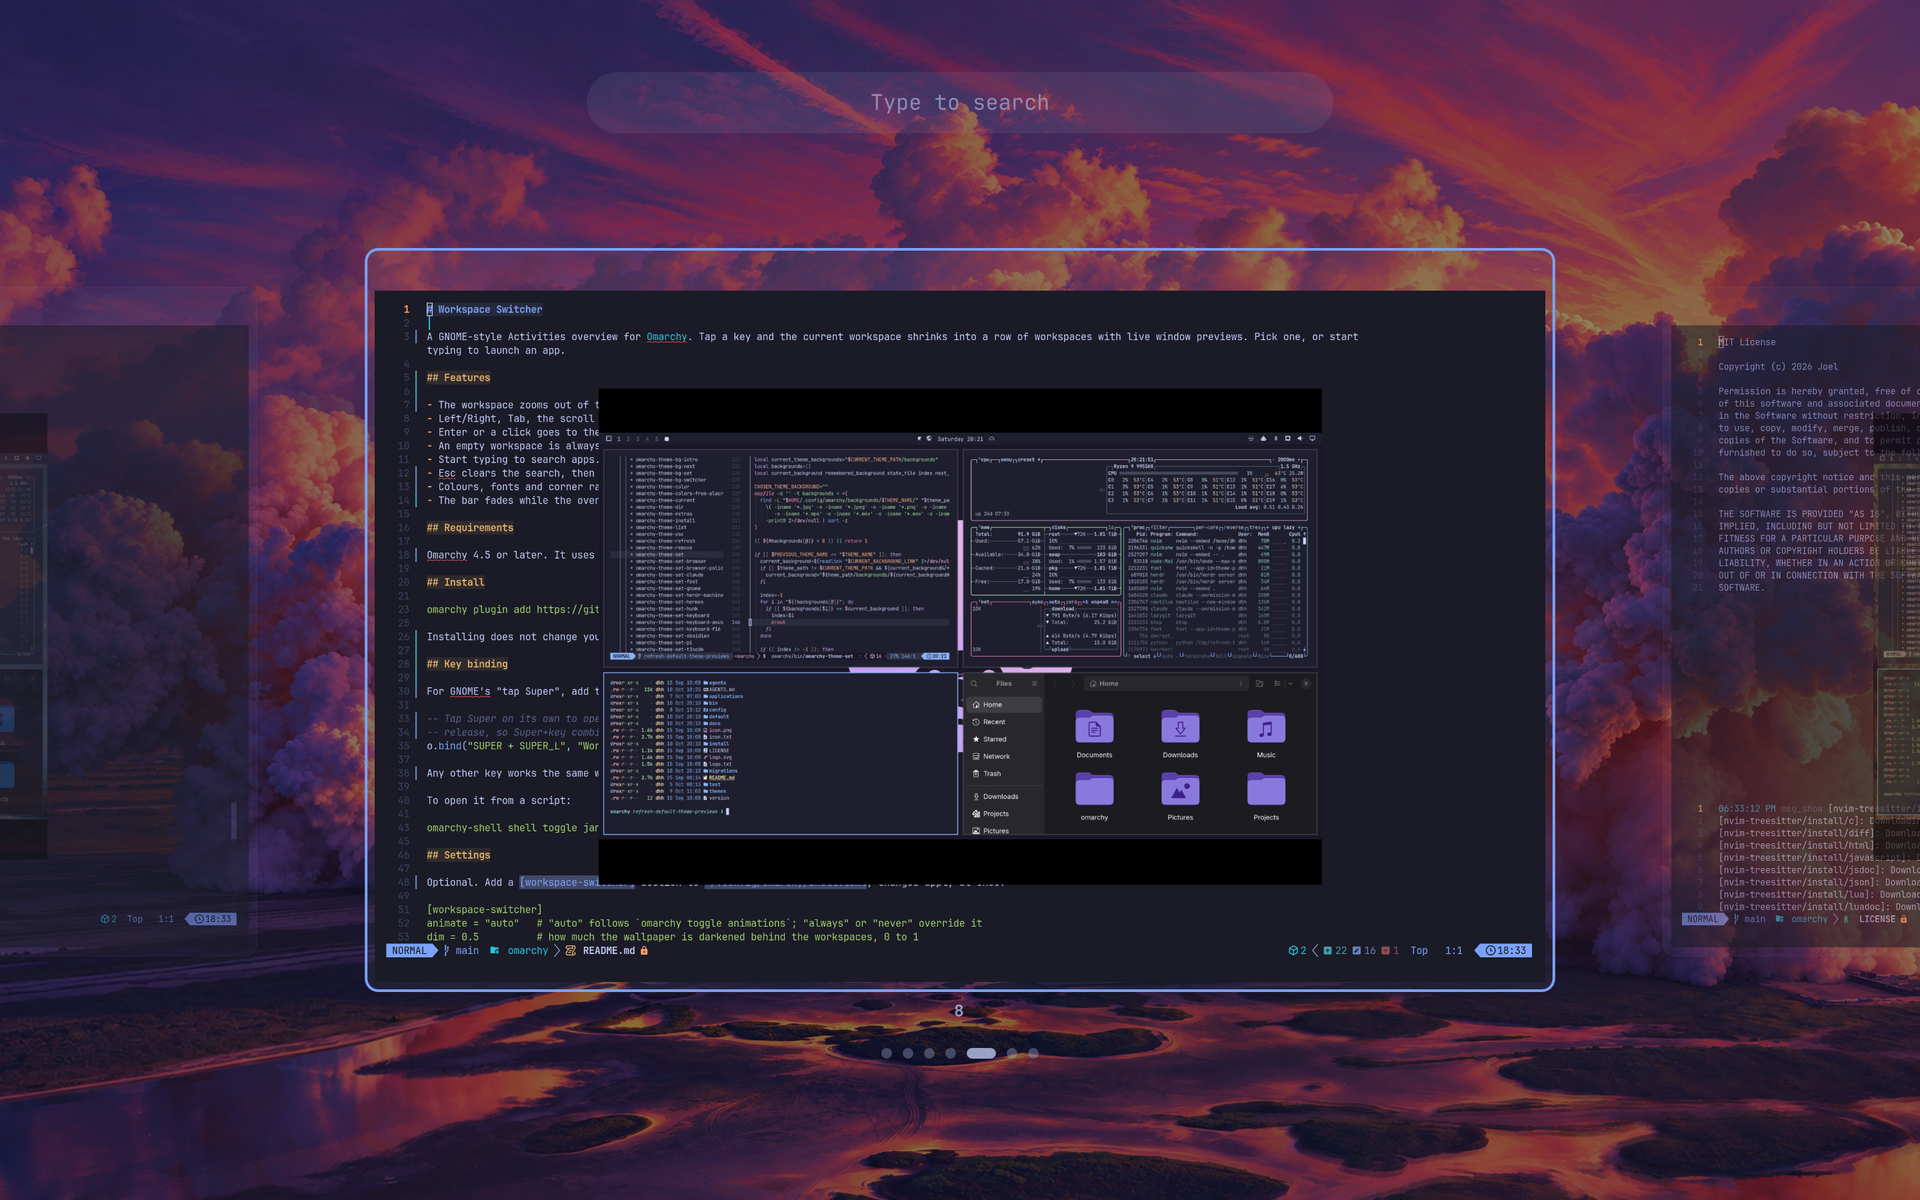
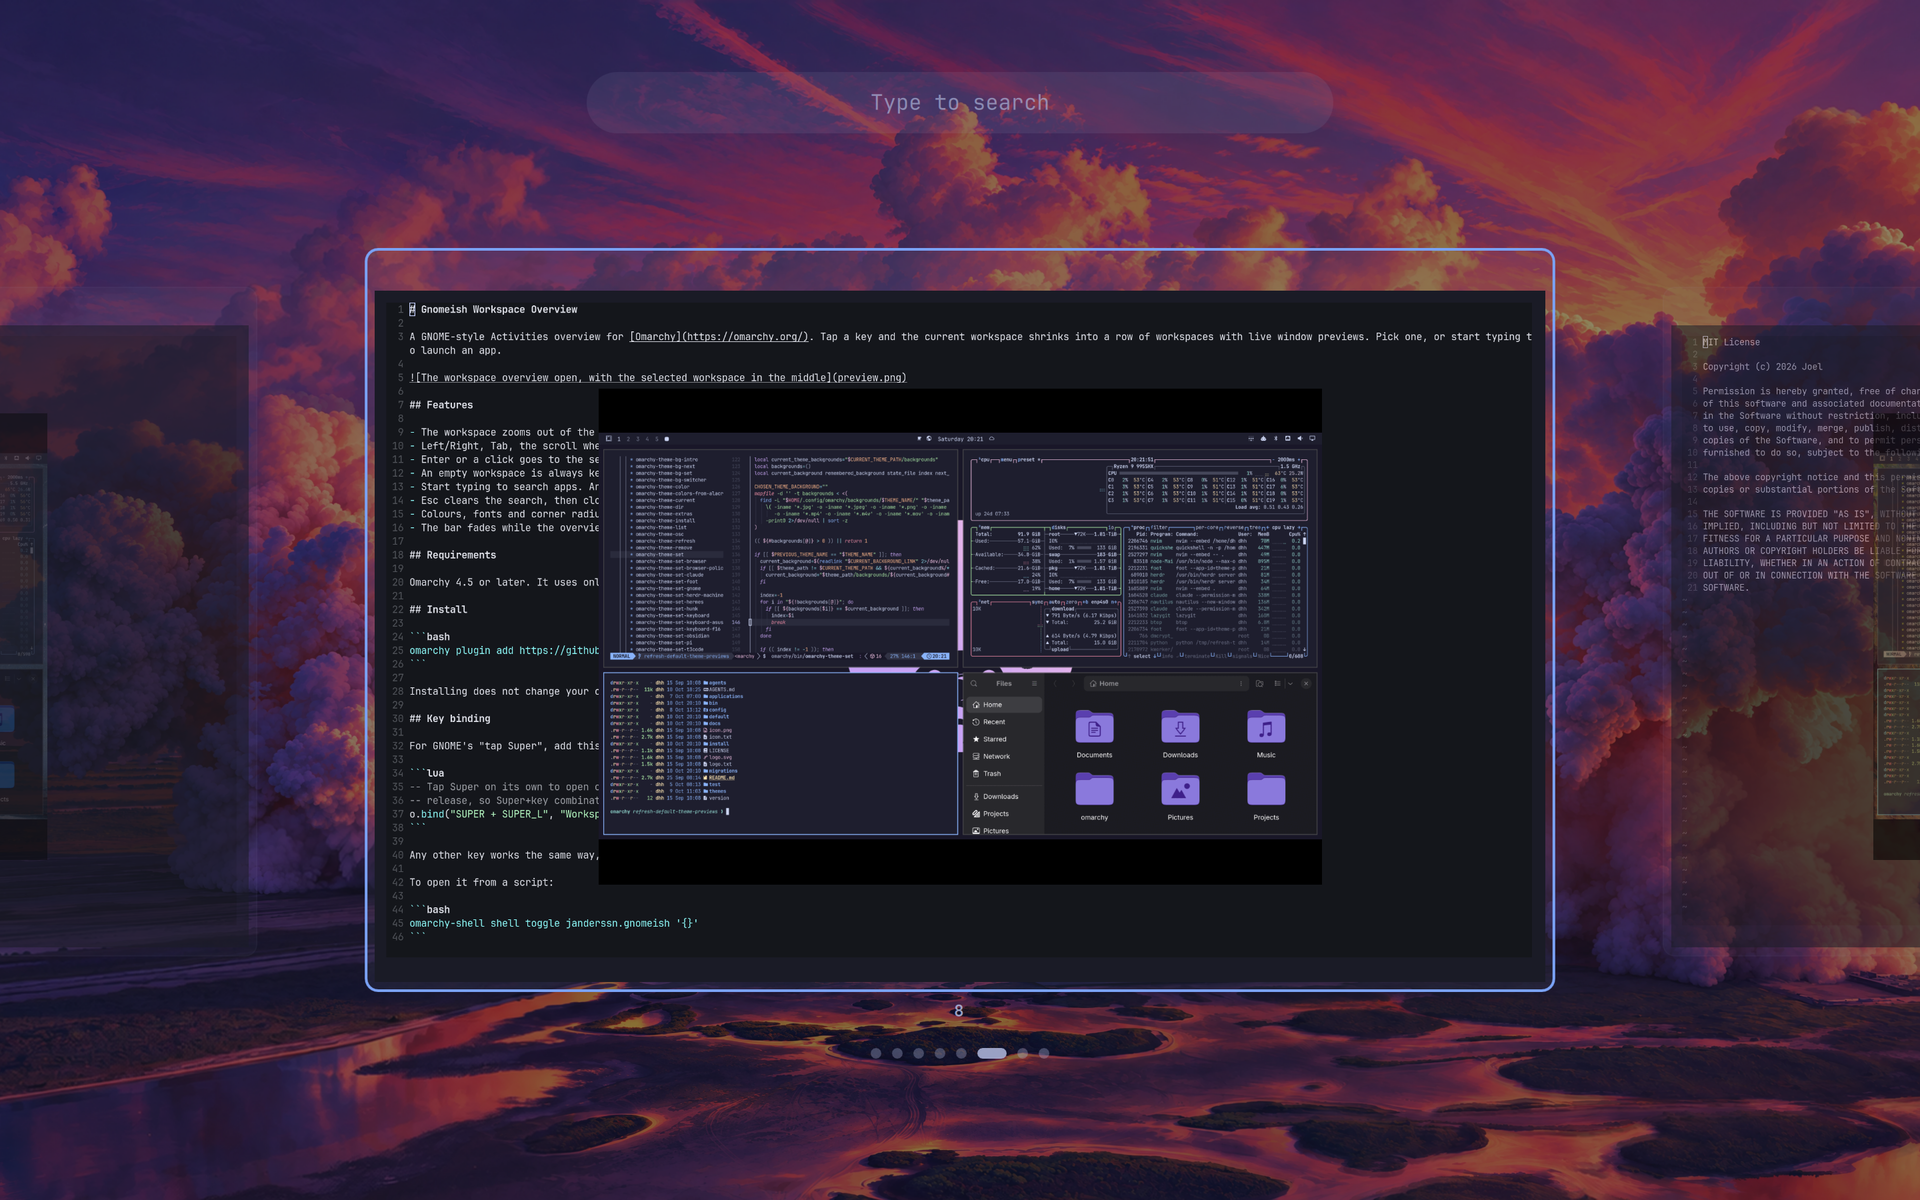
Rename the plugin to Gnomeish Workspace Overview (janderssn.gnomeish)
Two marketplace listings are already called Workspace Switcher. The id,
display name, settings section ([gnomeish]), entry file and repository
(omarchy-gnomeish) change together, and the preview is retaken.

tools/publish-gnomeish now commits a snapshot of the folder onto the
published repository instead of a subtree push, so a folder rename does
not rewrite the public history.

diff --git a/Gnomeish.qml b/Gnomeish.qml
@@ -7,7 +7,7 @@ import qs.Commons
 import qs.Commons as Commons
 import qs.Ui
 
-// Workspace Switcher: a GNOME-style Activities overview for Omarchy.
+// Gnomeish Workspace Overview: a GNOME-style Activities overview for Omarchy.
 //  - Workspaces as large cards with live window previews, current one centered.
 //  - Left/Right, scroll wheel / touchpad, or swipe to move between workspaces;
 //    Enter or click to go there; click a window to focus it.
@@ -18,7 +18,7 @@ Item {
 
   property var shell: null
   property var manifest: null
-  readonly property string pluginId: (manifest && manifest.id) || "janderssn.workspace-switcher"
+  readonly property string pluginId: (manifest && manifest.id) || "janderssn.gnomeish"
   readonly property var appLibrary: shell ? shell.appLibrary : null
 
   property bool opened: false
@@ -62,13 +62,13 @@ Item {
   }
 
   // ---------------------------------------------------------------- settings
-  // Optional, from an [workspace-switcher] section in ~/.config/omarchy/shell.toml:
+  // Optional, from an [gnomeish] section in ~/.config/omarchy/shell.toml:
   //   animate = "auto" | "always" | "never"   (auto follows `omarchy toggle animations`)
   //   dim     = 0.5                           (darkening of the wallpaper, 0 to 1)
   //   bar     = "fade" | "keep"               (fade the bar away, or leave it showing and usable)
   function setting(key, fallback) {
     var values = Commons.Color.shellValues
-    var value = values ? values["workspace-switcher." + key] : undefined
+    var value = values ? values["gnomeish." + key] : undefined
     return typeof value === "string" && value.length > 0 ? value : fallback
   }
 
@@ -584,7 +584,7 @@ Item {
   OverlayWindow {
     id: panel
     shown: root.opened
-    WlrLayershell.namespace: "workspace-switcher"
+    WlrLayershell.namespace: "gnomeish"
 
     // With the bar kept, clicks on it go to the bar.
     mask: root.keepBar ? stageRegion : null

diff --git a/README.md b/README.md
@@ -1,8 +1,8 @@
-# Workspace Switcher
+# Gnomeish Workspace Overview
 
 A GNOME-style Activities overview for [Omarchy](https://omarchy.org/). Tap a key and the current workspace shrinks into a row of workspaces with live window previews. Pick one, or start typing to launch an app.
 
-![The workspace switcher open, with the selected workspace in the middle](preview.png)
+![The workspace overview open, with the selected workspace in the middle](preview.png)
 
 ## Features
 
@@ -22,7 +22,7 @@ Omarchy 4.5 or later. It uses only what Omarchy ships; there is nothing else to 
 ## Install
 
 ```bash
-omarchy plugin add https://github.com/janderssn/omarchy-workspace-switcher.git --enable
+omarchy plugin add https://github.com/janderssn/omarchy-gnomeish.git --enable
 ```
 
 Installing does not change your configuration. To open the overview you add a key binding yourself.
@@ -32,25 +32,25 @@ Installing does not change your configuration. To open the overview you add a ke
 For GNOME's "tap Super", add this to the end of `~/.config/hypr/bindings.lua`:
 
 ```lua
--- Tap Super on its own to open or close the workspace switcher. It fires on
+-- Tap Super on its own to open or close the workspace overview. It fires on
 -- release, so Super+key combinations keep working.
-o.bind("SUPER + SUPER_L", "Workspace switcher", { panel = "janderssn.workspace-switcher" }, { release = true })
+o.bind("SUPER + SUPER_L", "Workspace overview", { panel = "janderssn.gnomeish" }, { release = true })
 ```
 
-Any other key works the same way, for example `o.bind("SUPER + TAB", "Workspace switcher", { panel = "janderssn.workspace-switcher" })`.
+Any other key works the same way, for example `o.bind("SUPER + TAB", "Workspace overview", { panel = "janderssn.gnomeish" })`.
 
 To open it from a script:
 
 ```bash
-omarchy-shell shell toggle janderssn.workspace-switcher '{}'
+omarchy-shell shell toggle janderssn.gnomeish '{}'
 ```
 
 ## Settings
 
-Optional. Add a `[workspace-switcher]` section to `~/.config/omarchy/shell.toml`; changes apply at once.
+Optional. Add a `[gnomeish]` section to `~/.config/omarchy/shell.toml`; changes apply at once.
 
 ```toml
-[workspace-switcher]
+[gnomeish]
 animate = "auto"   # "auto" follows `omarchy toggle animations`; "always" or "never" override it
 dim = 0.5          # how much the wallpaper is darkened behind the workspaces, 0 to 1
 bar = "fade"       # "fade" hides the bar while the overview is open; "keep" leaves it showing and usable
@@ -66,16 +66,16 @@ bar = "fade"       # "fade" hides the bar while the overview is open; "keep" lea
 ## Update
 
 ```bash
-omarchy plugin update janderssn.workspace-switcher
+omarchy plugin update janderssn.gnomeish
 ```
 
 ## Remove
 
 ```bash
-omarchy plugin remove janderssn.workspace-switcher
+omarchy plugin remove janderssn.gnomeish
 ```
 
-The plugin leaves nothing behind of its own. Two things you added by hand stay until you delete them: the binding line in `~/.config/hypr/bindings.lua` and the `[workspace-switcher]` section in `~/.config/omarchy/shell.toml`.
+The plugin leaves nothing behind of its own. Two things you added by hand stay until you delete them: the binding line in `~/.config/hypr/bindings.lua` and the `[gnomeish]` section in `~/.config/omarchy/shell.toml`.
 
 ## Limits
 
